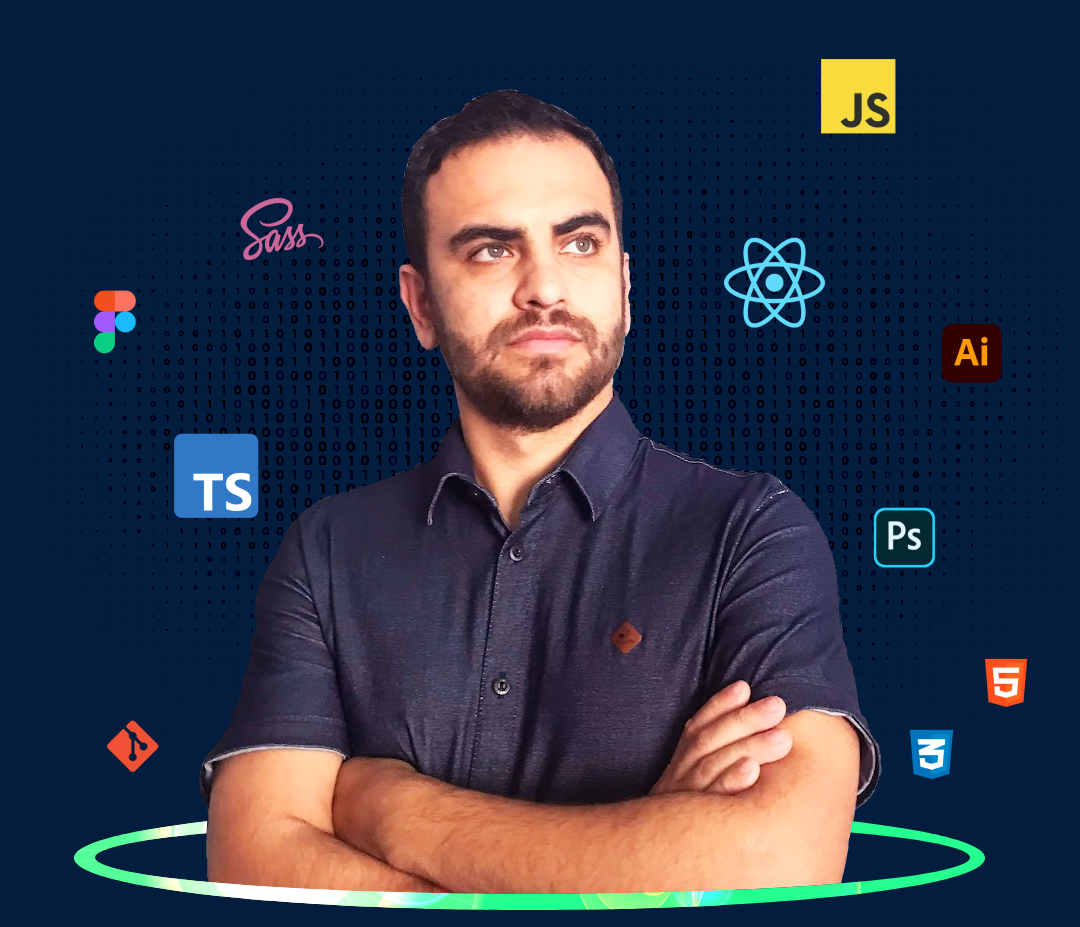
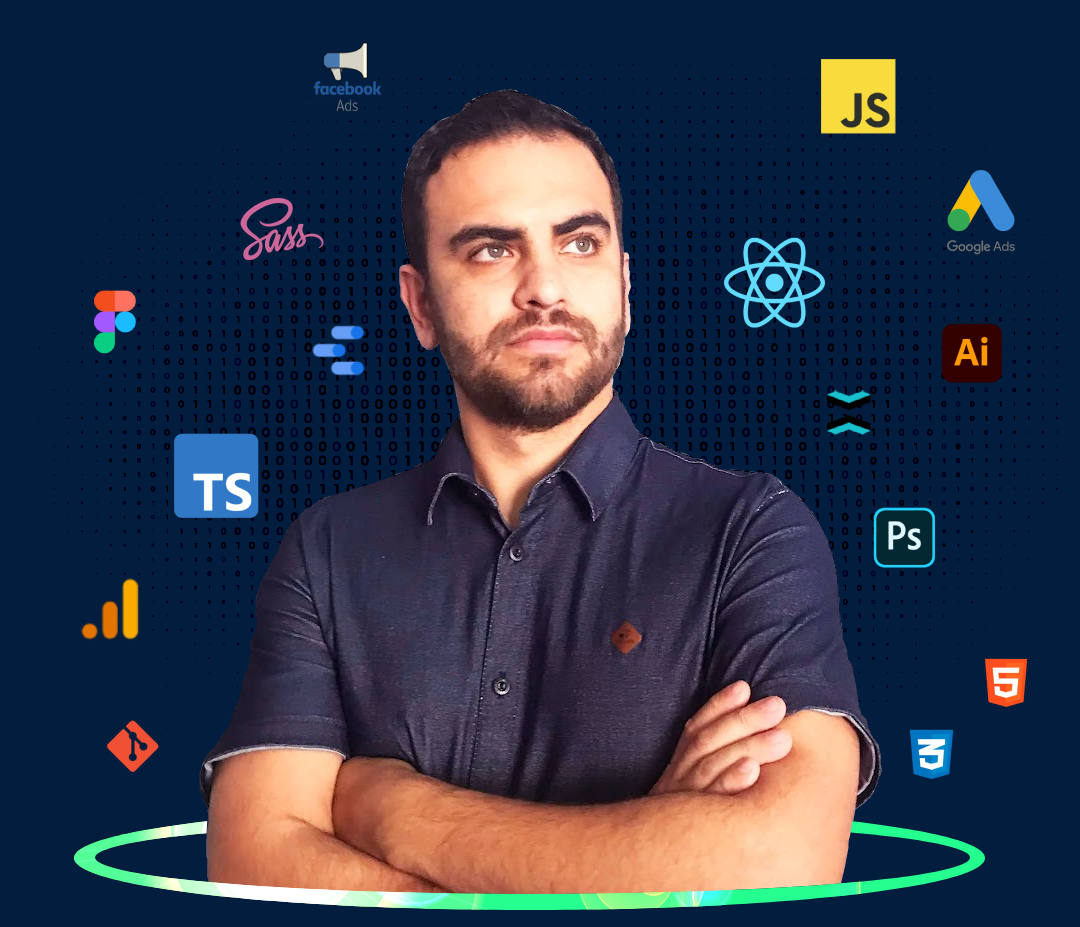
update images

diff --git a/src/pages/skills/index.tsx b/src/pages/skills/index.tsx
@@ -23,6 +23,71 @@ export default function Skills() {
 
         <div className={style.containerSkills}>
 
+          
+        <div className={style.title}>TECH MARKETING</div>
+          <div className={style.container}>
+
+
+            <div className={style.skill__div}>
+              <img src="assets/gg_ads.png" className={style.skill__img} alt="Figma" />
+              <div className={style.skill__title}>Google Ads</div>
+            </div>
+
+            <div className={style.skill__div}>
+              <img src="assets/fb_ads.png" className={style.skill__img} alt="Illustrator" />
+              <div className={style.skill__title}>Facebook Ads</div>
+            </div>
+
+            <div className={style.skill__div}>
+              <img src="assets/rd.png" className={style.skill__img} alt="Photoshop" />
+              <div className={style.skill__title}>RD Station</div>
+            </div>
+
+            <div className={style.skill__div}>
+              <img src="assets/analytics.png" className={style.skill__img} alt="Branding" />
+              <div className={style.skill__title}>Google Analytics</div>
+            </div>
+
+            <div className={style.skill__div}>
+              <img src="assets/data.png" className={style.skill__img} alt="SEO" />
+              <div className={style.skill__title}>Google DataStudio</div>
+            </div>
+
+            <div className={style.skill__div}>
+              <img src="assets/branding.png" className={style.skill__img} alt="Branding" />
+              <div className={style.skill__title}>Branding</div>
+            </div>
+            
+          </div>
+
+
+
+          
+          <div className={style.title}>UI/UX DESIGN</div>
+          <div className={style.container}>
+
+
+            <div className={style.skill__div}>
+              <img src="assets/figma.png" className={style.skill__img} alt="Figma" />
+              <div className={style.skill__title}>Figma</div>
+            </div>
+
+            <div className={style.skill__div}>
+              <img src="assets/ai.png" className={style.skill__img} alt="Illustrator" />
+              <div className={style.skill__title}>Illustrator</div>
+            </div>
+
+            <div className={style.skill__div}>
+              <img src="assets/ps.png" className={style.skill__img} alt="Photoshop" />
+              <div className={style.skill__title}>Photoshop</div>
+            </div>
+
+            <div className={style.skill__div}>
+              <img src="assets/seo.png" className={style.skill__img} alt="SEO" />
+              <div className={style.skill__title}>SEO</div>
+            </div>
+          </div>
+
 
           <div className={style.title}>FRONT-END CODE</div>
           <div className={style.container}>
@@ -63,35 +128,6 @@ export default function Skills() {
             </div>
           </div>
 
-          <div className={style.title}>UI/UX DESIGN</div>
-          <div className={style.container}>
-
-
-            <div className={style.skill__div}>
-              <img src="assets/figma.png" className={style.skill__img} alt="Figma" />
-              <div className={style.skill__title}>Figma</div>
-            </div>
-
-            <div className={style.skill__div}>
-              <img src="assets/ai.png" className={style.skill__img} alt="Illustrator" />
-              <div className={style.skill__title}>Illustrator</div>
-            </div>
-
-            <div className={style.skill__div}>
-              <img src="assets/ps.png" className={style.skill__img} alt="Photoshop" />
-              <div className={style.skill__title}>Photoshop</div>
-            </div>
-
-            <div className={style.skill__div}>
-              <img src="assets/branding.png" className={style.skill__img} alt="Branding" />
-              <div className={style.skill__title}>Branding</div>
-            </div>
-
-            <div className={style.skill__div}>
-              <img src="assets/seo.png" className={style.skill__img} alt="SEO" />
-              <div className={style.skill__title}>SEO</div>
-            </div>
-          </div>
 
         </div>
 
